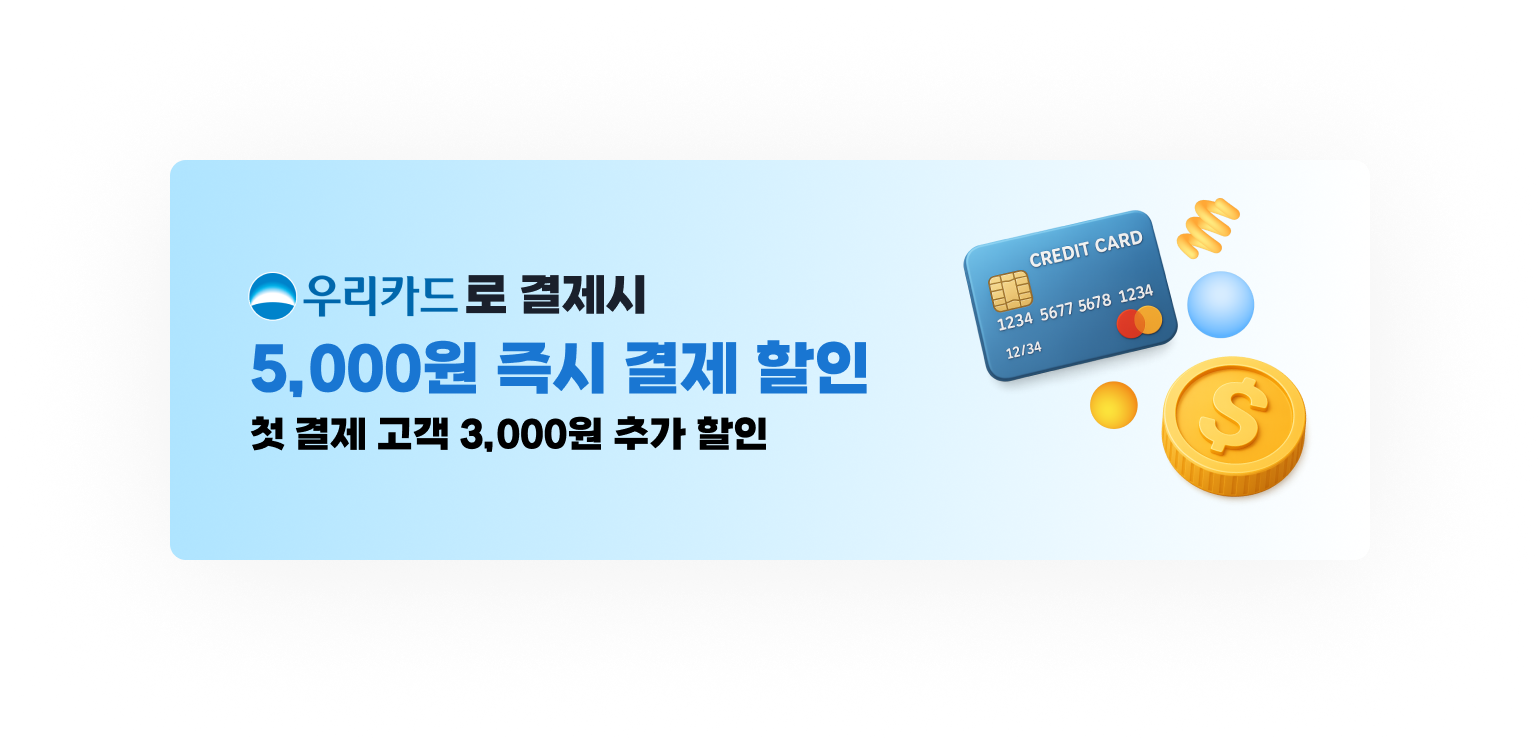
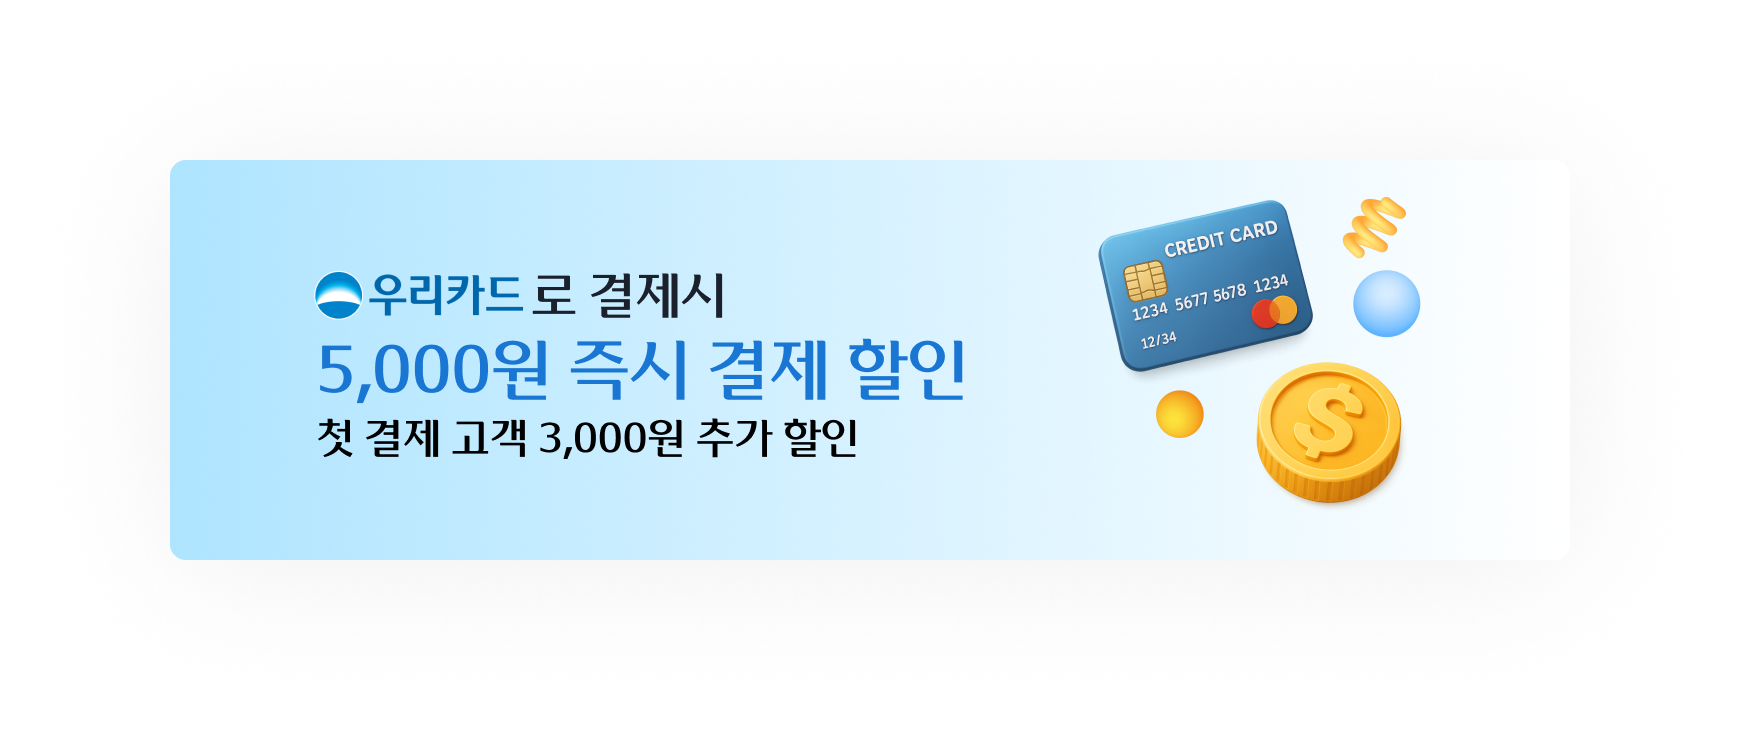
style: 메인페이지 배너 이미지 추가 및 UI 개선

Changed region(s): [[0.6234, 0.2486, 0.8727, 0.6838], [0.1558, 0.373, 0.561, 0.6216], [0.0935, 0.2176, 0.1247, 0.777]]

diff --git a/src/features/home/components/Banner.css b/src/features/home/components/Banner.css
@@ -65,23 +65,25 @@
   position: absolute;
   top: 50%;
   transform: translateY(-50%);
-  background: var(--primary-100);
+  background: transparent;
   outline: none;
   border: none;
-  border-radius: 50%;
-  width: 48px;
-  height: 48px;
   display: flex;
   align-items: center;
   justify-content: center;
-  color: #fff;
+  color: var(--text);
   cursor: pointer;
   z-index: 2;
-  transition: background 0.2s;
+  transition: color 0.2s;
 }
 .carousel-btn.left {
   left: 24px;
 }
 .carousel-btn.right {
   right: 24px;
+}
+
+.carousel-btn:focus {
+  outline: none;
+  box-shadow: none;
 }

diff --git a/src/features/home/components/Banner.jsx b/src/features/home/components/Banner.jsx
@@ -6,6 +6,8 @@ import { BsChevronCompactRight } from "react-icons/bs";
 import "./Banner.css";
 import banner01 from "./images/banner_01.png";
 import banner02 from "./images/banner_02.png";
+import banner03 from "./images/banner_03.png";
+import banner04 from "./images/banner_04.png";
 
 const banners = [
   {
@@ -17,14 +19,12 @@ const banners = [
     image: banner02,
   },
   {
-    title: "배너 이미지 #3",
-    link: "#",
     color: "linear-gradient(to right, #0C291A, #0F8B4C)",
+    image: banner04,
   },
   {
-    title: "배너 이미지 #4",
-    link: "#",
     color: "linear-gradient(to right, #0C291A, #0F8B4C)",
+    image: banner03,
   },
 ];
 

diff --git a/src/features/home/components/GenreRanking.css b/src/features/home/components/GenreRanking.css
@@ -90,3 +90,8 @@
 .genre-more-btn:active {
   outline: none;
 }
+
+.show-card:focus {
+  outline: none;
+  box-shadow: none;
+}

diff --git a/src/features/home/components/UpcomingEvents.css b/src/features/home/components/UpcomingEvents.css
@@ -41,3 +41,8 @@
 .upcoming-more-btn:active {
   outline: none;
 }
+
+.show-card:focus {
+  outline: none;
+  box-shadow: none;
+}